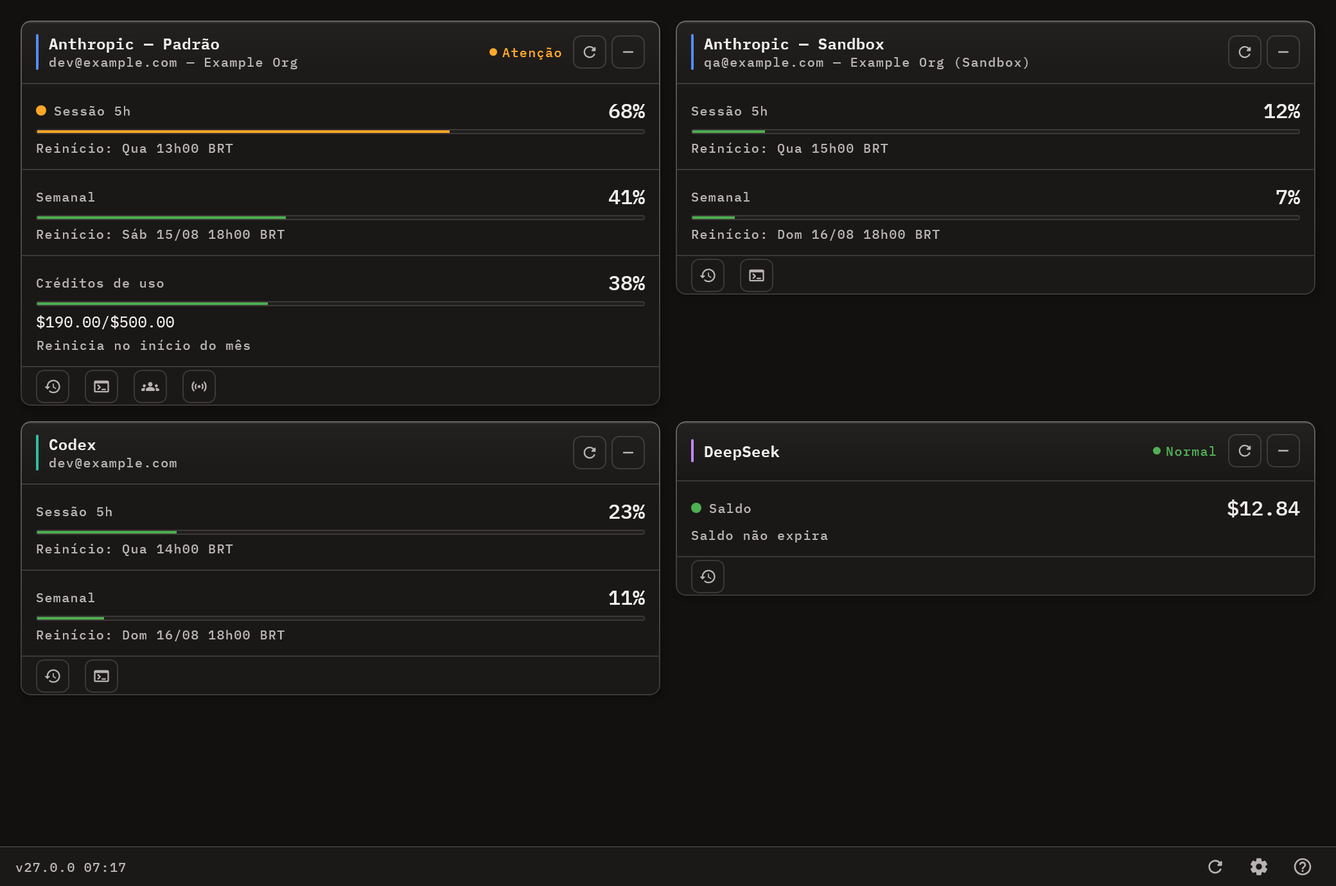
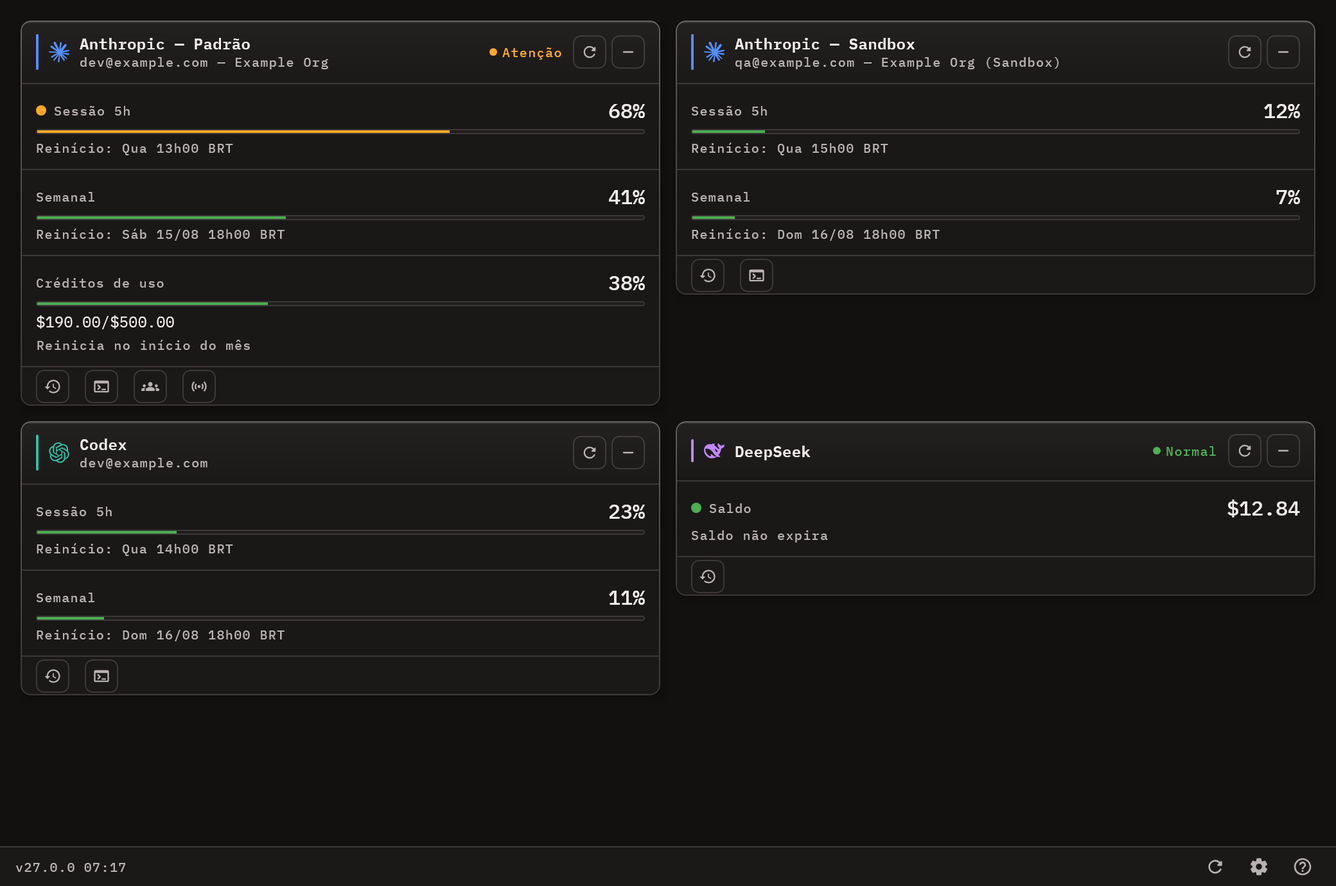
feat(identity): add provider marks and show them in card headers
AppProviderMark draws the monochrome identification mark of each
provider - the Claude asterisk, the OpenAI knot on Codex, the Cursor
cube, the Antigravity arch and the others - from the same Simple Icons
(CC0) and lobe-icons (MIT) paths ai-usagebar ships, plus Simple Icons'
Google Gemini mark. Cards show the mark in their source accent next to
the 2dp stroke. An exhaustive mapping over ApiSource makes a source
without a mark a compile error, and a test catches paths that stopped
parsing.

diff --git a/src/commonMain/kotlin/com/usagemonitor/presentation/ui/components/AppProviderMark.kt b/src/commonMain/kotlin/com/usagemonitor/presentation/ui/components/AppProviderMark.kt
@@ -1,0 +1,146 @@
+package com.usagemonitor.presentation.ui.components
+
+import androidx.compose.foundation.Image
+import androidx.compose.foundation.layout.size
+import androidx.compose.runtime.Composable
+import androidx.compose.runtime.remember
+import androidx.compose.ui.Modifier
+import androidx.compose.ui.graphics.Color
+import androidx.compose.ui.graphics.ColorFilter
+import androidx.compose.ui.graphics.PathFillType
+import androidx.compose.ui.graphics.SolidColor
+import androidx.compose.ui.graphics.vector.ImageVector
+import androidx.compose.ui.graphics.vector.PathParser
+import androidx.compose.ui.graphics.vector.rememberVectorPainter
+import androidx.compose.ui.semantics.clearAndSetSemantics
+import androidx.compose.ui.unit.Dp
+import androidx.compose.ui.unit.dp
+import com.usagemonitor.domain.entity.ApiSource
+
+/**
+ * A marca de identificação do fornecedor: o asterisco do Claude, o nó da
+ * OpenAI no Codex, o cubo do Cursor, o arco do Antigravity.
+ *
+ * O card já dizia de quem era pelo título e pelo traço de 2dp, e a HUD pelo
+ * nome da conta — e nos dois casos era preciso **ler**. Com a marca, a fonte se
+ * reconhece antes do texto, que é o que o Codenotch e o ai-usagebar fazem e o
+ * que faltava aqui.
+ *
+ * **Monocromática, tingida por quem usa**: acento da fonte no cabeçalho do card
+ * (a identidade que o traço de 2dp já carrega), a cor do texto no centro do anel
+ * da HUD. Nenhuma marca traz cor própria — as cores de marca dos fornecedores
+ * não passariam o contraste AA nas duas superfícies, e o acento já é a
+ * identidade medida por `AppAccentsContrastTest`.
+ *
+ * **Decorativa para a semântica**: o nome do fornecedor está sempre escrito ao
+ * lado, e uma descrição aqui faria o leitor de tela ler o nome duas vezes.
+ *
+ * Origem das formas, as mesmas do ai-usagebar (MIT), com a licença de cada uma:
+ * - `CLAUDE`: Simple Icons `claude`, CC0-1.0.
+ * - `OPENAI`: Simple Icons `openai`, CC0-1.0.
+ * - `CURSOR`: Simple Icons `cursor`, CC0-1.0.
+ * - `ANTIGRAVITY`: lobe-icons `antigravity`, MIT.
+ * - `GEMINI`: Simple Icons `googlegemini` 13.21.0, CC0-1.0.
+ * - `KILO`: lobe-icons `kilocode`, MIT.
+ * - `OPENCODE`: lobe-icons `opencode`, MIT.
+ * - `DEEPSEEK`: Simple Icons `deepseek`, CC0-1.0.
+ * - `MINIMAX`: Simple Icons `minimax`, CC0-1.0.
+ * - `OPENROUTER`: Simple Icons `openrouter`, CC0-1.0.
+ *
+ * Enum com `when` exaustivo sobre [ApiSource]: fonte nova sem marca é erro de
+ * compilação, e não um card sem identificação descoberto na tela.
+ */
+@Composable
+fun AppProviderMark(
+    source: ApiSource,
+    tint: Color,
+    modifier: Modifier = Modifier,
+    size: Dp = 16.dp
+) {
+    val mark = source.providerMark()
+    val vector = remember(mark) { mark.toImageVector() }
+    Image(
+        painter = rememberVectorPainter(vector),
+        contentDescription = null,
+        colorFilter = ColorFilter.tint(tint),
+        modifier = modifier
+            .size(size)
+            .clearAndSetSemantics { }
+    )
+}
+
+/** As formas disponíveis. Várias fontes podem dividir uma (OpenCode Zen e Go). */
+enum class ProviderMark(internal val pathData: String, internal val evenOdd: Boolean) {
+    CLAUDE(
+        pathData = "m4.7144 15.9555 4.7174-2.6471.079-.2307-.079-.1275h-.2307l-.7893-.0486-2.6956-.0729-2.3375-.0971-2.2646-.1214-.5707-.1215-.5343-.7042.0546-.3522.4797-.3218.686.0608 1.5179.1032 2.2767.1578 1.6514.0972 2.4468.255h.3886l.0546-.1579-.1336-.0971-.1032-.0972L6.973 9.8356l-2.55-1.6879-1.3356-.9714-.7225-.4918-.3643-.4614-.1578-1.0078.6557-.7225.8803.0607.2246.0607.8925.686 1.9064 1.4754 2.4893 1.8336.3643.3035.1457-.1032.0182-.0728-.164-.2733-1.3539-2.4467-1.445-2.4893-.6435-1.032-.17-.6194c-.0607-.255-.1032-.4674-.1032-.7285L6.287.1335 6.6997 0l.9957.1336.419.3642.6192 1.4147 1.0018 2.2282 1.5543 3.0296.4553.8985.2429.8318.091.255h.1579v-.1457l.1275-1.706.2368-2.0947.2307-2.6957.0789-.7589.3764-.9107.7468-.4918.5828.2793.4797.686-.0668.4433-.2853 1.8517-.5586 2.9021-.3643 1.9429h.2125l.2429-.2429.9835-1.3053 1.6514-2.0643.7286-.8196.85-.9046.5464-.4311h1.0321l.759 1.1293-.34 1.1657-1.0625 1.3478-.8804 1.1414-1.2628 1.7-.7893 1.36.0729.1093.1882-.0183 2.8535-.607 1.5421-.2794 1.8396-.3157.8318.3886.091.3946-.3278.8075-1.967.4857-2.3072.4614-3.4364.8136-.0425.0304.0486.0607 1.5482.1457.6618.0364h1.621l3.0175.2247.7892.522.4736.6376-.079.4857-1.2142.6193-1.6393-.3886-3.825-.9107-1.3113-.3279h-.1822v.1093l1.0929 1.0686 2.0035 1.8092 2.5075 2.3314.1275.5768-.3218.4554-.34-.0486-2.2039-1.6575-.85-.7468-1.9246-1.621h-.1275v.17l.4432.6496 2.3436 3.5214.1214 1.0807-.17.3521-.6071.2125-.6679-.1214-1.3721-1.9246L14.38 17.959l-1.1414-1.9428-.1397.079-.674 7.2552-.3156.3703-.7286.2793-.6071-.4614-.3218-.7468.3218-1.4753.3886-1.9246.3157-1.53.2853-1.9004.17-.6314-.0121-.0425-.1397.0182-1.4328 1.9672-2.1796 2.9446-1.7243 1.8456-.4128.164-.7164-.3704.0667-.6618.4008-.5889 2.386-3.0357 1.4389-1.882.929-1.0868-.0062-.1579h-.0546l-6.3385 4.1164-1.1293.1457-.4857-.4554.0608-.7467.2307-.2429 1.9064-1.3114Z",
+        evenOdd = false
+    ),
+    OPENAI(
+        pathData = "M22.2819 9.8211a5.9847 5.9847 0 0 0-.5157-4.9108 6.0462 6.0462 0 0 0-6.5098-2.9A6.0651 6.0651 0 0 0 4.9807 4.1818a5.9847 5.9847 0 0 0-3.9977 2.9 6.0462 6.0462 0 0 0 .7427 7.0966 5.98 5.98 0 0 0 .511 4.9107 6.051 6.051 0 0 0 6.5146 2.9001A5.9847 5.9847 0 0 0 13.2599 24a6.0557 6.0557 0 0 0 5.7718-4.2058 5.9894 5.9894 0 0 0 3.9977-2.9001 6.0557 6.0557 0 0 0-.7475-7.0729zm-9.022 12.6081a4.4755 4.4755 0 0 1-2.8764-1.0408l.1419-.0804 4.7783-2.7582a.7948.7948 0 0 0 .3927-.6813v-6.7369l2.02 1.1686a.071.071 0 0 1 .038.052v5.5826a4.504 4.504 0 0 1-4.4945 4.4944zm-9.6607-4.1254a4.4708 4.4708 0 0 1-.5346-3.0137l.142.0852 4.783 2.7582a.7712.7712 0 0 0 .7806 0l5.8428-3.3685v2.3324a.0804.0804 0 0 1-.0332.0615L9.74 19.9502a4.4992 4.4992 0 0 1-6.1408-1.6464zM2.3408 7.8956a4.485 4.485 0 0 1 2.3655-1.9728V11.6a.7664.7664 0 0 0 .3879.6765l5.8144 3.3543-2.0201 1.1685a.0757.0757 0 0 1-.071 0l-4.8303-2.7865A4.504 4.504 0 0 1 2.3408 7.872zm16.5963 3.8558L13.1038 8.364 15.1192 7.2a.0757.0757 0 0 1 .071 0l4.8303 2.7913a4.4944 4.4944 0 0 1-.6765 8.1042v-5.6772a.79.79 0 0 0-.407-.667zm2.0107-3.0231l-.142-.0852-4.7735-2.7818a.7759.7759 0 0 0-.7854 0L9.409 9.2297V6.8974a.0662.0662 0 0 1 .0284-.0615l4.8303-2.7866a4.4992 4.4992 0 0 1 6.6802 4.66zM8.3065 12.863l-2.02-1.1638a.0804.0804 0 0 1-.038-.0567V6.0742a4.4992 4.4992 0 0 1 7.3757-3.4537l-.142.0805L8.704 5.459a.7948.7948 0 0 0-.3927.6813zm1.0976-2.3654l2.602-1.4998 2.6069 1.4998v2.9994l-2.5974 1.4997-2.6067-1.4997Z",
+        evenOdd = false
+    ),
+    CURSOR(
+        pathData = "M11.503.131 1.891 5.678a.84.84 0 0 0-.42.726v11.188c0 .3.162.575.42.724l9.609 5.55a1 1 0 0 0 .998 0l9.61-5.55a.84.84 0 0 0 .42-.724V6.404a.84.84 0 0 0-.42-.726L12.497.131a1.01 1.01 0 0 0-.996 0M2.657 6.338h18.55c.263 0 .43.287.297.515L12.23 22.918c-.062.107-.229.064-.229-.06V12.335a.59.59 0 0 0-.295-.51l-9.11-5.257c-.109-.063-.064-.23.061-.23",
+        evenOdd = false
+    ),
+    ANTIGRAVITY(
+        pathData = "M21.751 22.607c1.34 1.005 3.35.335 1.508-1.508C17.73 15.74 18.904 1 12.037 1 5.17 1 6.342 15.74.815 21.1c-2.01 2.009.167 2.511 1.507 1.506 5.192-3.517 4.857-9.714 9.715-9.714 4.857 0 4.522 6.197 9.714 9.715z",
+        evenOdd = true
+    ),
+    GEMINI(
+        pathData = "M11.04 19.32Q12 21.51 12 24q0-2.49.93-4.68.96-2.19 2.58-3.81t3.81-2.55Q21.51 12 24 12q-2.49 0-4.68-.93a12.3 12.3 0 0 1-3.81-2.58 12.3 12.3 0 0 1-2.58-3.81Q12 2.49 12 0q0 2.49-.96 4.68-.93 2.19-2.55 3.81a12.3 12.3 0 0 1-3.81 2.58Q2.49 12 0 12q2.49 0 4.68.96 2.19.93 3.81 2.55t2.55 3.81",
+        evenOdd = false
+    ),
+    KILO(
+        pathData = "M0 0v24h24V0H0zm22.222 22.222H1.778V1.778h20.444v20.444zm-7.555-4.964h2.222v1.778h-2.794L12.89 17.83v-2.794h1.778v2.222zm4 0h-1.778v-2.222h-2.222v-1.778h2.793l1.207 1.207v2.793zm-7.556-2.591H9.333v-1.778h1.778v1.778zm-5.778-1.778h1.778v4h4v1.778H6.54L5.333 17.46V12.89zm13.334-3.556v1.778h-5.778V9.333h1.987V7.111h-1.987V5.333h2.558l1.206 1.207v2.793h2.014zm-11.556-2h2.222l1.778 1.778v2H9.333v-2H7.111v2H5.333V5.333h1.778v2zm4 0H9.333v-2h1.778v2z",
+        evenOdd = true
+    ),
+    OPENCODE(
+        pathData = "M16 6H8v12h8V6zm4 16H4V2h16v20z",
+        evenOdd = true
+    ),
+    DEEPSEEK(
+        pathData = "M23.748 4.651c-.254-.124-.364.113-.512.233-.051.04-.094.09-.137.137-.372.397-.806.657-1.373.626-.829-.046-1.537.214-2.163.848-.133-.782-.575-1.248-1.247-1.548-.352-.155-.708-.311-.955-.65-.172-.24-.219-.509-.305-.774-.055-.16-.11-.323-.293-.35-.2-.031-.278.136-.356.276-.313.572-.434 1.202-.422 1.84.027 1.436.633 2.58 1.838 3.393.137.094.172.187.129.323-.082.28-.18.553-.266.833-.055.179-.137.218-.328.14a5.5 5.5 0 0 1-1.737-1.179c-.857-.828-1.631-1.743-2.597-2.46a12 12 0 0 0-.689-.47c-.985-.957.13-1.743.387-1.836.27-.098.094-.433-.778-.428-.872.003-1.67.295-2.687.685a3 3 0 0 1-.465.136 9.6 9.6 0 0 0-2.883-.101c-1.885.21-3.39 1.1-4.497 2.622C.082 8.776-.231 10.854.152 13.02c.403 2.284 1.568 4.175 3.36 5.653 1.857 1.533 3.997 2.284 6.438 2.14 1.482-.085 3.132-.284 4.994-1.86.47.234.962.328 1.78.398.629.058 1.235-.031 1.705-.129.735-.155.684-.836.418-.961-2.155-1.004-1.682-.595-2.112-.926 1.095-1.295 2.768-3.598 3.284-6.733.05-.346.115-.834.108-1.114-.004-.171.035-.238.23-.257a4.2 4.2 0 0 0 1.545-.475c1.397-.763 1.96-2.016 2.093-3.517.02-.23-.004-.467-.247-.588M11.58 18.168c-2.088-1.642-3.101-2.183-3.52-2.16-.39.024-.32.472-.234.763.09.288.207.487.371.74.114.167.192.416-.113.603-.673.416-1.842-.14-1.897-.168-1.361-.801-2.5-1.86-3.301-3.306-.775-1.393-1.225-2.888-1.299-4.482-.02-.385.094-.522.477-.592a4.7 4.7 0 0 1 1.53-.038c2.131.311 3.946 1.264 5.467 2.774.868.86 1.525 1.887 2.202 2.89.72 1.066 1.494 2.082 2.48 2.915.348.291.626.513.892.677-.802.09-2.14.109-3.055-.615zm1.001-6.44a.306.306 0 0 1 .415-.287.3.3 0 0 1 .113.074.3.3 0 0 1 .086.214c0 .17-.136.307-.308.307a.303.303 0 0 1-.306-.307m3.11 1.596c-.2.081-.4.151-.591.16a1.25 1.25 0 0 1-.798-.254c-.274-.23-.47-.358-.551-.758a1.7 1.7 0 0 1 .015-.588c.07-.327-.007-.537-.238-.727-.188-.156-.426-.199-.689-.199a.6.6 0 0 1-.254-.078.253.253 0 0 1-.114-.358 1 1 0 0 1 .192-.21c.356-.202.767-.136 1.146.016.352.144.618.408 1.001.782.392.451.462.576.685.915.176.264.336.536.446.848.066.194-.02.353-.25.45",
+        evenOdd = false
+    ),
+    MINIMAX(
+        pathData = "M11.43 3.92a.86.86 0 1 0-1.718 0v14.236a1.999 1.999 0 0 1-3.997 0V9.022a.86.86 0 1 0-1.718 0v3.87a1.999 1.999 0 0 1-3.997 0V11.49a.57.57 0 0 1 1.139 0v1.404a.86.86 0 0 0 1.719 0V9.022a1.999 1.999 0 0 1 3.997 0v9.134a.86.86 0 0 0 1.719 0V3.92a1.998 1.998 0 1 1 3.996 0v11.788a.57.57 0 1 1-1.139 0zm10.572 3.105a2 2 0 0 0-1.999 1.997v7.63a.86.86 0 0 1-1.718 0V3.923a1.999 1.999 0 0 0-3.997 0v16.16a.86.86 0 0 1-1.719 0V18.08a.57.57 0 1 0-1.138 0v2a1.998 1.998 0 0 0 3.996 0V3.92a.86.86 0 0 1 1.719 0v12.73a1.999 1.999 0 0 0 3.996 0V9.023a.86.86 0 1 1 1.72 0v6.686a.57.57 0 0 0 1.138 0V9.022a2 2 0 0 0-1.998-1.997",
+        evenOdd = false
+    ),
+    OPENROUTER(
+        pathData = "M16.778 1.844v1.919q-.569-.026-1.138-.032-.708-.008-1.415.037c-1.93.126-4.023.728-6.149 2.237-2.911 2.066-2.731 1.95-4.14 2.75-.396.223-1.342.574-2.185.798-.841.225-1.753.333-1.751.333v4.229s.768.108 1.61.333c.842.224 1.789.575 2.185.799 1.41.798 1.228.683 4.14 2.75 2.126 1.509 4.22 2.11 6.148 2.236.88.058 1.716.041 2.555.005v1.918l7.222-4.168-7.222-4.17v2.176c-.86.038-1.611.065-2.278.021-1.364-.09-2.417-.357-3.979-1.465-2.244-1.593-2.866-2.027-3.68-2.508.889-.518 1.449-.906 3.822-2.59 1.56-1.109 2.614-1.377 3.978-1.466.667-.044 1.418-.017 2.278.02v2.176L24 6.014Z",
+        evenOdd = false
+    );
+}
+
+/** A marca de cada fonte. Gemini CLI e Antigravity são Google, mas cada um tem a sua. */
+fun ApiSource.providerMark(): ProviderMark {
+    return when (this) {
+        ApiSource.ANTHROPIC -> ProviderMark.CLAUDE
+        ApiSource.CODEX -> ProviderMark.OPENAI
+        ApiSource.CURSOR -> ProviderMark.CURSOR
+        ApiSource.ANTIGRAVITY -> ProviderMark.ANTIGRAVITY
+        ApiSource.GEMINI -> ProviderMark.GEMINI
+        ApiSource.KILO -> ProviderMark.KILO
+        ApiSource.OPENCODE -> ProviderMark.OPENCODE
+        ApiSource.OPENCODE_GO -> ProviderMark.OPENCODE
+        ApiSource.DEEPSEEK -> ProviderMark.DEEPSEEK
+        ApiSource.MINIMAX -> ProviderMark.MINIMAX
+        ApiSource.OPENROUTER -> ProviderMark.OPENROUTER
+    }
+}
+
+/** Todas as formas vêm em `viewBox 0 0 24 24`, o que dispensa guardar a caixa. */
+internal fun ProviderMark.toImageVector(): ImageVector {
+    return ImageVector.Builder(
+        name = "providerMark_$name",
+        defaultWidth = 24.dp,
+        defaultHeight = 24.dp,
+        viewportWidth = 24f,
+        viewportHeight = 24f
+    ).addPath(
+        pathData = PathParser().parsePathString(pathData).toNodes(),
+        pathFillType = if (evenOdd) PathFillType.EvenOdd else PathFillType.NonZero,
+        fill = SolidColor(Color.Black)
+    ).build()
+}

diff --git a/docs/design-system/components/core/AppProviderMark.jsx b/docs/design-system/components/core/AppProviderMark.jsx
@@ -1,0 +1,28 @@
+import React from 'react';
+
+// Marcas de identificação do fornecedor (Compose: `AppProviderMark`). Monocromáticas,
+// tingidas por quem usa. Origem e licença de cada forma no KDoc do Kotlin.
+const MARKS = {
+  claude: { d: 'm4.7144 15.9555 4.7174-2.6471.079-.2307-.079-.1275h-.2307l-.7893-.0486-2.6956-.0729-2.3375-.0971-2.2646-.1214-.5707-.1215-.5343-.7042.0546-.3522.4797-.3218.686.0608 1.5179.1032 2.2767.1578 1.6514.0972 2.4468.255h.3886l.0546-.1579-.1336-.0971-.1032-.0972L6.973 9.8356l-2.55-1.6879-1.3356-.9714-.7225-.4918-.3643-.4614-.1578-1.0078.6557-.7225.8803.0607.2246.0607.8925.686 1.9064 1.4754 2.4893 1.8336.3643.3035.1457-.1032.0182-.0728-.164-.2733-1.3539-2.4467-1.445-2.4893-.6435-1.032-.17-.6194c-.0607-.255-.1032-.4674-.1032-.7285L6.287.1335 6.6997 0l.9957.1336.419.3642.6192 1.4147 1.0018 2.2282 1.5543 3.0296.4553.8985.2429.8318.091.255h.1579v-.1457l.1275-1.706.2368-2.0947.2307-2.6957.0789-.7589.3764-.9107.7468-.4918.5828.2793.4797.686-.0668.4433-.2853 1.8517-.5586 2.9021-.3643 1.9429h.2125l.2429-.2429.9835-1.3053 1.6514-2.0643.7286-.8196.85-.9046.5464-.4311h1.0321l.759 1.1293-.34 1.1657-1.0625 1.3478-.8804 1.1414-1.2628 1.7-.7893 1.36.0729.1093.1882-.0183 2.8535-.607 1.5421-.2794 1.8396-.3157.8318.3886.091.3946-.3278.8075-1.967.4857-2.3072.4614-3.4364.8136-.0425.0304.0486.0607 1.5482.1457.6618.0364h1.621l3.0175.2247.7892.522.4736.6376-.079.4857-1.2142.6193-1.6393-.3886-3.825-.9107-1.3113-.3279h-.1822v.1093l1.0929 1.0686 2.0035 1.8092 2.5075 2.3314.1275.5768-.3218.4554-.34-.0486-2.2039-1.6575-.85-.7468-1.9246-1.621h-.1275v.17l.4432.6496 2.3436 3.5214.1214 1.0807-.17.3521-.6071.2125-.6679-.1214-1.3721-1.9246L14.38 17.959l-1.1414-1.9428-.1397.079-.674 7.2552-.3156.3703-.7286.2793-.6071-.4614-.3218-.7468.3218-1.4753.3886-1.9246.3157-1.53.2853-1.9004.17-.6314-.0121-.0425-.1397.0182-1.4328 1.9672-2.1796 2.9446-1.7243 1.8456-.4128.164-.7164-.3704.0667-.6618.4008-.5889 2.386-3.0357 1.4389-1.882.929-1.0868-.0062-.1579h-.0546l-6.3385 4.1164-1.1293.1457-.4857-.4554.0608-.7467.2307-.2429 1.9064-1.3114Z', evenOdd: false },
+  openai: { d: 'M22.2819 9.8211a5.9847 5.9847 0 0 0-.5157-4.9108 6.0462 6.0462 0 0 0-6.5098-2.9A6.0651 6.0651 0 0 0 4.9807 4.1818a5.9847 5.9847 0 0 0-3.9977 2.9 6.0462 6.0462 0 0 0 .7427 7.0966 5.98 5.98 0 0 0 .511 4.9107 6.051 6.051 0 0 0 6.5146 2.9001A5.9847 5.9847 0 0 0 13.2599 24a6.0557 6.0557 0 0 0 5.7718-4.2058 5.9894 5.9894 0 0 0 3.9977-2.9001 6.0557 6.0557 0 0 0-.7475-7.0729zm-9.022 12.6081a4.4755 4.4755 0 0 1-2.8764-1.0408l.1419-.0804 4.7783-2.7582a.7948.7948 0 0 0 .3927-.6813v-6.7369l2.02 1.1686a.071.071 0 0 1 .038.052v5.5826a4.504 4.504 0 0 1-4.4945 4.4944zm-9.6607-4.1254a4.4708 4.4708 0 0 1-.5346-3.0137l.142.0852 4.783 2.7582a.7712.7712 0 0 0 .7806 0l5.8428-3.3685v2.3324a.0804.0804 0 0 1-.0332.0615L9.74 19.9502a4.4992 4.4992 0 0 1-6.1408-1.6464zM2.3408 7.8956a4.485 4.485 0 0 1 2.3655-1.9728V11.6a.7664.7664 0 0 0 .3879.6765l5.8144 3.3543-2.0201 1.1685a.0757.0757 0 0 1-.071 0l-4.8303-2.7865A4.504 4.504 0 0 1 2.3408 7.872zm16.5963 3.8558L13.1038 8.364 15.1192 7.2a.0757.0757 0 0 1 .071 0l4.8303 2.7913a4.4944 4.4944 0 0 1-.6765 8.1042v-5.6772a.79.79 0 0 0-.407-.667zm2.0107-3.0231l-.142-.0852-4.7735-2.7818a.7759.7759 0 0 0-.7854 0L9.409 9.2297V6.8974a.0662.0662 0 0 1 .0284-.0615l4.8303-2.7866a4.4992 4.4992 0 0 1 6.6802 4.66zM8.3065 12.863l-2.02-1.1638a.0804.0804 0 0 1-.038-.0567V6.0742a4.4992 4.4992 0 0 1 7.3757-3.4537l-.142.0805L8.704 5.459a.7948.7948 0 0 0-.3927.6813zm1.0976-2.3654l2.602-1.4998 2.6069 1.4998v2.9994l-2.5974 1.4997-2.6067-1.4997Z', evenOdd: false },
+  cursor: { d: 'M11.503.131 1.891 5.678a.84.84 0 0 0-.42.726v11.188c0 .3.162.575.42.724l9.609 5.55a1 1 0 0 0 .998 0l9.61-5.55a.84.84 0 0 0 .42-.724V6.404a.84.84 0 0 0-.42-.726L12.497.131a1.01 1.01 0 0 0-.996 0M2.657 6.338h18.55c.263 0 .43.287.297.515L12.23 22.918c-.062.107-.229.064-.229-.06V12.335a.59.59 0 0 0-.295-.51l-9.11-5.257c-.109-.063-.064-.23.061-.23', evenOdd: false },
+  antigravity: { d: 'M21.751 22.607c1.34 1.005 3.35.335 1.508-1.508C17.73 15.74 18.904 1 12.037 1 5.17 1 6.342 15.74.815 21.1c-2.01 2.009.167 2.511 1.507 1.506 5.192-3.517 4.857-9.714 9.715-9.714 4.857 0 4.522 6.197 9.714 9.715z', evenOdd: true },
+  gemini: { d: 'M11.04 19.32Q12 21.51 12 24q0-2.49.93-4.68.96-2.19 2.58-3.81t3.81-2.55Q21.51 12 24 12q-2.49 0-4.68-.93a12.3 12.3 0 0 1-3.81-2.58 12.3 12.3 0 0 1-2.58-3.81Q12 2.49 12 0q0 2.49-.96 4.68-.93 2.19-2.55 3.81a12.3 12.3 0 0 1-3.81 2.58Q2.49 12 0 12q2.49 0 4.68.96 2.19.93 3.81 2.55t2.55 3.81', evenOdd: false },
+  kilo: { d: 'M0 0v24h24V0H0zm22.222 22.222H1.778V1.778h20.444v20.444zm-7.555-4.964h2.222v1.778h-2.794L12.89 17.83v-2.794h1.778v2.222zm4 0h-1.778v-2.222h-2.222v-1.778h2.793l1.207 1.207v2.793zm-7.556-2.591H9.333v-1.778h1.778v1.778zm-5.778-1.778h1.778v4h4v1.778H6.54L5.333 17.46V12.89zm13.334-3.556v1.778h-5.778V9.333h1.987V7.111h-1.987V5.333h2.558l1.206 1.207v2.793h2.014zm-11.556-2h2.222l1.778 1.778v2H9.333v-2H7.111v2H5.333V5.333h1.778v2zm4 0H9.333v-2h1.778v2z', evenOdd: true },
+  opencode: { d: 'M16 6H8v12h8V6zm4 16H4V2h16v20z', evenOdd: true },
+  deepseek: { d: 'M23.748 4.651c-.254-.124-.364.113-.512.233-.051.04-.094.09-.137.137-.372.397-.806.657-1.373.626-.829-.046-1.537.214-2.163.848-.133-.782-.575-1.248-1.247-1.548-.352-.155-.708-.311-.955-.65-.172-.24-.219-.509-.305-.774-.055-.16-.11-.323-.293-.35-.2-.031-.278.136-.356.276-.313.572-.434 1.202-.422 1.84.027 1.436.633 2.58 1.838 3.393.137.094.172.187.129.323-.082.28-.18.553-.266.833-.055.179-.137.218-.328.14a5.5 5.5 0 0 1-1.737-1.179c-.857-.828-1.631-1.743-2.597-2.46a12 12 0 0 0-.689-.47c-.985-.957.13-1.743.387-1.836.27-.098.094-.433-.778-.428-.872.003-1.67.295-2.687.685a3 3 0 0 1-.465.136 9.6 9.6 0 0 0-2.883-.101c-1.885.21-3.39 1.1-4.497 2.622C.082 8.776-.231 10.854.152 13.02c.403 2.284 1.568 4.175 3.36 5.653 1.857 1.533 3.997 2.284 6.438 2.14 1.482-.085 3.132-.284 4.994-1.86.47.234.962.328 1.78.398.629.058 1.235-.031 1.705-.129.735-.155.684-.836.418-.961-2.155-1.004-1.682-.595-2.112-.926 1.095-1.295 2.768-3.598 3.284-6.733.05-.346.115-.834.108-1.114-.004-.171.035-.238.23-.257a4.2 4.2 0 0 0 1.545-.475c1.397-.763 1.96-2.016 2.093-3.517.02-.23-.004-.467-.247-.588M11.58 18.168c-2.088-1.642-3.101-2.183-3.52-2.16-.39.024-.32.472-.234.763.09.288.207.487.371.74.114.167.192.416-.113.603-.673.416-1.842-.14-1.897-.168-1.361-.801-2.5-1.86-3.301-3.306-.775-1.393-1.225-2.888-1.299-4.482-.02-.385.094-.522.477-.592a4.7 4.7 0 0 1 1.53-.038c2.131.311 3.946 1.264 5.467 2.774.868.86 1.525 1.887 2.202 2.89.72 1.066 1.494 2.082 2.48 2.915.348.291.626.513.892.677-.802.09-2.14.109-3.055-.615zm1.001-6.44a.306.306 0 0 1 .415-.287.3.3 0 0 1 .113.074.3.3 0 0 1 .086.214c0 .17-.136.307-.308.307a.303.303 0 0 1-.306-.307m3.11 1.596c-.2.081-.4.151-.591.16a1.25 1.25 0 0 1-.798-.254c-.274-.23-.47-.358-.551-.758a1.7 1.7 0 0 1 .015-.588c.07-.327-.007-.537-.238-.727-.188-.156-.426-.199-.689-.199a.6.6 0 0 1-.254-.078.253.253 0 0 1-.114-.358 1 1 0 0 1 .192-.21c.356-.202.767-.136 1.146.016.352.144.618.408 1.001.782.392.451.462.576.685.915.176.264.336.536.446.848.066.194-.02.353-.25.45', evenOdd: false },
+  minimax: { d: 'M11.43 3.92a.86.86 0 1 0-1.718 0v14.236a1.999 1.999 0 0 1-3.997 0V9.022a.86.86 0 1 0-1.718 0v3.87a1.999 1.999 0 0 1-3.997 0V11.49a.57.57 0 0 1 1.139 0v1.404a.86.86 0 0 0 1.719 0V9.022a1.999 1.999 0 0 1 3.997 0v9.134a.86.86 0 0 0 1.719 0V3.92a1.998 1.998 0 1 1 3.996 0v11.788a.57.57 0 1 1-1.139 0zm10.572 3.105a2 2 0 0 0-1.999 1.997v7.63a.86.86 0 0 1-1.718 0V3.923a1.999 1.999 0 0 0-3.997 0v16.16a.86.86 0 0 1-1.719 0V18.08a.57.57 0 1 0-1.138 0v2a1.998 1.998 0 0 0 3.996 0V3.92a.86.86 0 0 1 1.719 0v12.73a1.999 1.999 0 0 0 3.996 0V9.023a.86.86 0 1 1 1.72 0v6.686a.57.57 0 0 0 1.138 0V9.022a2 2 0 0 0-1.998-1.997', evenOdd: false },
+  openrouter: { d: 'M16.778 1.844v1.919q-.569-.026-1.138-.032-.708-.008-1.415.037c-1.93.126-4.023.728-6.149 2.237-2.911 2.066-2.731 1.95-4.14 2.75-.396.223-1.342.574-2.185.798-.841.225-1.753.333-1.751.333v4.229s.768.108 1.61.333c.842.224 1.789.575 2.185.799 1.41.798 1.228.683 4.14 2.75 2.126 1.509 4.22 2.11 6.148 2.236.88.058 1.716.041 2.555.005v1.918l7.222-4.168-7.222-4.17v2.176c-.86.038-1.611.065-2.278.021-1.364-.09-2.417-.357-3.979-1.465-2.244-1.593-2.866-2.027-3.68-2.508.889-.518 1.449-.906 3.822-2.59 1.56-1.109 2.614-1.377 3.978-1.466.667-.044 1.418-.017 2.278.02v2.176L24 6.014Z', evenOdd: false },
+};
+
+const BY_SOURCE = { anthropic: 'claude', codex: 'openai', cursor: 'cursor', antigravity: 'antigravity', gemini: 'gemini', kilo: 'kilo', oc: 'opencode', opencode: 'opencode', deepseek: 'deepseek', minimax: 'minimax', openrouter: 'openrouter' };
+
+export function AppProviderMark({ source, size = 16, color = 'currentColor', style }) {
+  const mark = MARKS[BY_SOURCE[source] || source];
+  if (!mark) return null;
+  return (
+    <svg width={size} height={size} viewBox="0 0 24 24" aria-hidden="true" style={{ flex: 'none', ...style }}>
+      <path d={mark.d} fill={color} fillRule={mark.evenOdd ? 'evenodd' : 'nonzero'} />
+    </svg>
+  );
+}

diff --git a/src/commonMain/kotlin/com/usagemonitor/presentation/ui/components/ApiUsageCard.kt b/src/commonMain/kotlin/com/usagemonitor/presentation/ui/components/ApiUsageCard.kt
@@ -364,6 +364,15 @@ fun ApiUsageCard(
                             color = accentColorFor(source = source, accents = AppAccents.current),
                             height = if (accountContext == null) 18.dp else 28.dp
                         )
+                        // A marca do fornecedor, no acento da fonte: reconhecer o
+                        // card antes de ler o título, como no Codenotch e no
+                        // ai-usagebar. O traço continua — ele é a identidade no
+                        // alinhamento vertical da grade; a marca é a do olho.
+                        AppProviderMark(
+                            source = source,
+                            tint = accentColorFor(source = source, accents = AppAccents.current),
+                            size = PROVIDER_MARK_SIZE
+                        )
                         // Título e conta na mesma coluna, como o `.ptitle`/`.psub`
                         // do protótipo. A conta era uma linha de largura cheia
                         // abaixo do cabeçalho inteiro, alinhada à borda do card e
@@ -1679,3 +1688,6 @@ private fun RefreshGlyph(refreshing: Boolean, tint: Color, size: Dp) {
 
 /** Uma volta por segundo: rápido o bastante para ler "trabalhando", lento para não agitar. */
 private const val REFRESH_TURN_MILLIS = 1_000
+
+/** A marca do cabeçalho: do tamanho do glifo de ação, para não disputar com o título. */
+private val PROVIDER_MARK_SIZE = 16.dp

diff --git a/src/commonTest/kotlin/com/usagemonitor/presentation/ui/components/AppProviderMarkTest.kt b/src/commonTest/kotlin/com/usagemonitor/presentation/ui/components/AppProviderMarkTest.kt
@@ -1,0 +1,30 @@
+package com.usagemonitor.presentation.ui.components
+
+import com.usagemonitor.domain.entity.ApiSource
+import androidx.compose.ui.graphics.vector.PathParser
+import kotlin.test.Test
+import kotlin.test.assertTrue
+
+class AppProviderMarkTest {
+
+    /**
+     * As formas vêm de SVG copiado de fora; um caractere perdido na cópia faz o
+     * parser devolver caminho vazio e o card sai sem marca, sem erro nenhum.
+     */
+    @Test
+    fun `toda marca vira um caminho desenhavel`() {
+        for (mark in ProviderMark.entries) {
+            val nodes = PathParser().parsePathString(mark.pathData).toNodes()
+            assertTrue(nodes.size > 3, "A marca $mark gerou só ${nodes.size} comandos.")
+            mark.toImageVector()
+        }
+    }
+
+    @Test
+    fun `toda fonte tem marca`() {
+        for (source in ApiSource.entries) {
+            // O `when` exaustivo já garante na compilação; o teste documenta.
+            source.providerMark()
+        }
+    }
+}

diff --git a/docs/design-system/components/core/AppProviderMark.d.ts b/docs/design-system/components/core/AppProviderMark.d.ts
@@ -1,0 +1,15 @@
+import type { CSSProperties } from 'react';
+
+/**
+ * Provider identification mark — Claude asterisk, OpenAI knot, Cursor cube,
+ * Antigravity arch… Monochrome, tinted by the caller. Decorative: the provider
+ * name is always written beside it. Compose: `AppProviderMark`.
+ */
+export interface AppProviderMarkProps {
+  source: 'anthropic' | 'codex' | 'cursor' | 'antigravity' | 'gemini' | 'kilo' | 'oc' | 'opencode' | 'deepseek' | 'minimax' | 'openrouter';
+  size?: number;
+  color?: string;
+  style?: CSSProperties;
+}
+
+export declare function AppProviderMark(props: AppProviderMarkProps): JSX.Element | null;

diff --git a/docs/design-system/_ds_local.js b/docs/design-system/_ds_local.js
@@ -9,6 +9,7 @@
     'components/core/AppIconButton.jsx',
     'components/core/AppPanel.jsx',
     'components/core/AppSourceMark.jsx',
+    'components/core/AppProviderMark.jsx',
     'components/core/AppMetric.jsx',
     'components/forms/AppTextField.jsx',
     'components/forms/AppSwitch.jsx',

diff --git a/docs/planos/profundidade-movimento-hud-notch-execucao.md b/docs/planos/profundidade-movimento-hud-notch-execucao.md
@@ -45,6 +45,18 @@ cápsula, marcador de ritmo, "Next update in 2m").
 | C16 | Indicadores contínuos atrás da política | feito |
 | C17 | Verificação final | feito (automática); manual pendente |
 
+### Rodada 2 — identificação (pedido depois da entrega)
+
+O usuário comparou com Codenotch e ai-usagebar e apontou o que faltava: **marca do fornecedor**,
+**plano da conta** ("Max 20x", "ChatGPT Plus") e **o provedor sempre escrito** — a HUD mostrava só
+"Padrão". O `ai-usagebar` foi clonado localmente como referência.
+
+| # | Atividade | Estado |
+|---|---|---|
+| D1 | Marca do fornecedor (`AppProviderMark`) e adoção no card | feito |
+| D2 | Plano da conta nos dados (`ApiUsageStats.planLabel`) | pendente |
+| D3 | HUD com provedor, marca e plano; plano no card; resumo na bandeja | pendente |
+
 ## Pontos de situação
 
 | Data | Atividade | Modelo | Comando | Resultado |
@@ -66,6 +78,7 @@ cápsula, marcador de ritmo, "Next update in 2m").
 | 2026-09-24 | C15 | Claude Opus 5.5 | `gradlew.bat allTests` + renderização descartável do notch (topo e lateral, escuro e claro, parado e aberto) | Verde: 2077 testes, 0 falhas. A primeira renderização mostrou a trilha dos anéis branca opaca — o alfa da camada de pressão tinha sido sobrescrito com 1 —; corrigida para a camada com 1,6× o peso. |
 | 2026-09-24 | C16 | Claude Opus 5.5 | `gradlew.bat desktopTest --tests "com.usagemonitor.ui.HudNotchTest" --tests "com.usagemonitor.presentation.SessionPulse*" --tests "com.usagemonitor.ui.ComponentTest"` | Verde. O teste de giro falhou uma vez no caso estático: sobre fundo transparente dois instantes parados diferiam pelo antialiasing acumulado; com fundo opaco, parado é idêntico e com a política contínua os dois instantes diferem. |
 | 2026-09-24 | C17 | Claude Opus 5.5 | `gradlew.bat allTests` + `gradlew.bat generateScreenshots` + `gradlew.bat generateHelpMedia` + `desktopTest --tests "*HelpMediaResourcesTest*"` | Verde: 2079 testes, 0 falhas; capturas do README e as doze demos da ajuda regeneradas (a de modos de janela já mostra o notch aberto). `gradlew.bat run` **não** foi executado: a versão instalada estava aberta e o `SingleInstanceGuard` só a traria para frente. |
+| 2026-09-24 | D1 | Claude Opus 5.5 | `gradlew.bat desktopTest --tests "com.usagemonitor.presentation.ui.components.AppProviderMarkTest" --tests "com.usagemonitor.ui.ComponentTest"` + `gradlew.bat generateScreenshots` | Verde; a captura mostra asterisco, nó e marca da DeepSeek no acento de cada card. |
 
 ## C1 · Tokens de motion e política
 

diff --git a/docs/design-system/readme.md b/docs/design-system/readme.md
@@ -182,6 +182,12 @@ component tests observe. A text button would have nowhere to put it.
 
 **Emoji are never used.** Unicode marks are used as icons, deliberately and only from the list above.
 
+**Provider marks — the one exception** (`AppProviderMark`). Identification is not a control: the
+Claude asterisk, the OpenAI knot, the Cursor cube and the others are small monochrome SVG paths
+(Simple Icons CC0 and lobe-icons MIT, the same set ai-usagebar ships), tinted by the source accent in
+card headers and by the foreground inside a HUD ring. The provider name is always written beside
+the mark, so it is decorative for semantics. Control glyphs stay Unicode.
+
 **Brand mark.** Own geometric monogram, built by a deterministic script: three stems joined by a
 bowl, reads as **U** and **M** overlapped at large sizes and keeps a distinct silhouette at 16px,
 where the tray icon lives. In `assets/`: `mark.svg`, `mark-on-light.svg`, `lockup.svg`, and the
@@ -198,7 +204,7 @@ invented here.
 | `styles.css` | Global entry point. `@import` lines only. |
 | `tokens/` | `fonts` `colors` `typography` `spacing` `shape` `motion` `base` |
 | `assets/` | Monogram, light variant, lockup, tray badge states |
-| `components/core/` | AppButton · AppIconButton · AppMenu · AppPanel (+Header/Body) · AppSourceMark (+Dot) · AppMetric · AppTooltipSurface |
+| `components/core/` | AppButton · AppIconButton · AppMenu · AppPanel (+Header/Body) · AppSourceMark (+Dot) · AppProviderMark · AppMetric · AppTooltipSurface |
 | `components/forms/` | AppTextField · AppTextArea · AppSwitch · AppTabs · AppSegmentedControl |
 | `components/data/` | AppProgressTrack · AppStatusIndicator (+AppStatusDot) · AppDataRow (+AppKey/AppValue) · AppDataTable · AppColumnHeader · AppGroupBand · AppUsageRing |
 | `components/feedback/` | AppBanner · AppConfirmationDialog · AppEmptyState · AppLoadingState · AppErrorState |

diff --git a/docs/design-system/components/core/AppProviderMark.prompt.md b/docs/design-system/components/core/AppProviderMark.prompt.md
@@ -1,0 +1,27 @@
+Provider identification mark: the Claude asterisk, the OpenAI knot on Codex, the Cursor cube, the
+Antigravity arch, the Gemini spark, DeepSeek, MiniMax, OpenRouter, Kilo and OpenCode.
+
+```jsx
+<AppSourceMark source="anthropic" />
+<AppProviderMark source="anthropic" color="var(--anthropic)" /> Anthropic — Padrão
+```
+
+**Recognition before reading.** The card said whose it was through its title and the 2px stroke; the
+HUD through the account name — both had to be *read*. Codenotch and ai-usagebar identify a provider
+by its mark first, and this is that.
+
+**Monochrome, tinted by the caller.** The source accent in the card header (the identity the stroke
+already carries); the foreground in the middle of a HUD ring. A mark never brings its own brand
+color — brand colors would not clear AA on both surfaces, and the accent is the identity already
+measured by `AppAccentsContrastTest`.
+
+**Decorative for semantics.** The provider name is always written next to it; a description here
+would make assistive tech read the name twice.
+
+**Sources and licences**, the same shapes ai-usagebar ships (MIT): Simple Icons `claude`, `openai`,
+`cursor`, `deepseek`, `minimax`, `openrouter` and `googlegemini` (CC0-1.0); lobe-icons
+`antigravity`, `kilocode`, `opencode` (MIT). All in a 24×24 viewBox. An exhaustive mapping over the
+sources makes a new source without a mark a compile error, not an unidentified card.
+
+This is the one exception to "no icon library": a mark is identification, not a control glyph, and
+the control glyphs stay Unicode in Plex Mono.

diff --git a/CLAUDE.md b/CLAUDE.md
@@ -588,6 +588,13 @@ Antes de desenhar um retângulo novo, procure aqui.
   que o âmbar do semáforo de risco passou anos abaixo de 3:1 contra a superfície clara.
 - **Acento é identidade de fonte, não de valor**: ele vive no marcador de 2dp e na linha do gráfico.
   Custo em azul e tempo em verde na mesma tabela sugerem categorias que não existem.
+- **Marca do fornecedor** (`AppProviderMark`): a única exceção a "sem biblioteca de ícones". O
+  asterisco do Claude, o nó da OpenAI, o cubo do Cursor e os demais são caminhos SVG monocromáticos
+  (Simple Icons CC0 e lobe-icons MIT, o mesmo conjunto do ai-usagebar), tingidos pelo acento no
+  cabeçalho do card e pela cor do texto no anel da HUD. Identificação não é glifo de controle, que
+  continua Unicode. Decorativa para a semântica: o nome está sempre escrito ao lado. `when`
+  exaustivo sobre `ApiSource`: fonte nova sem marca não compila, e `AppProviderMarkTest` pega o SVG
+  que perdeu um caractere na cópia (o parser devolveria caminho vazio, sem erro).
 
 **Armadilhas pagas uma vez cada** — todas custaram uma suíte vermelha:
 
